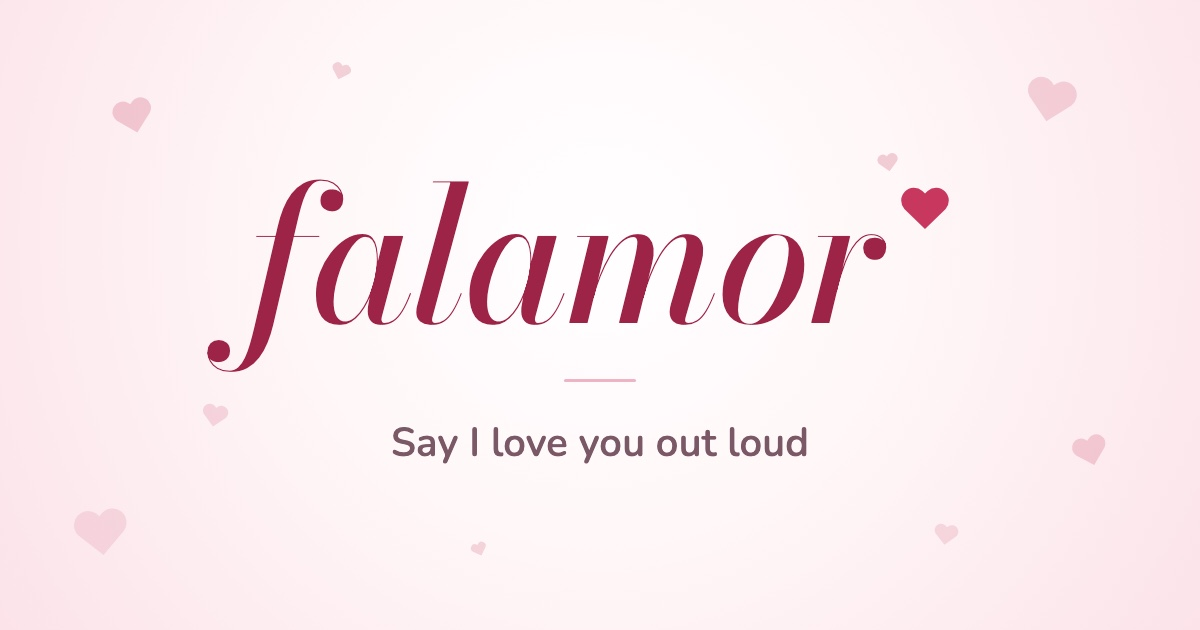
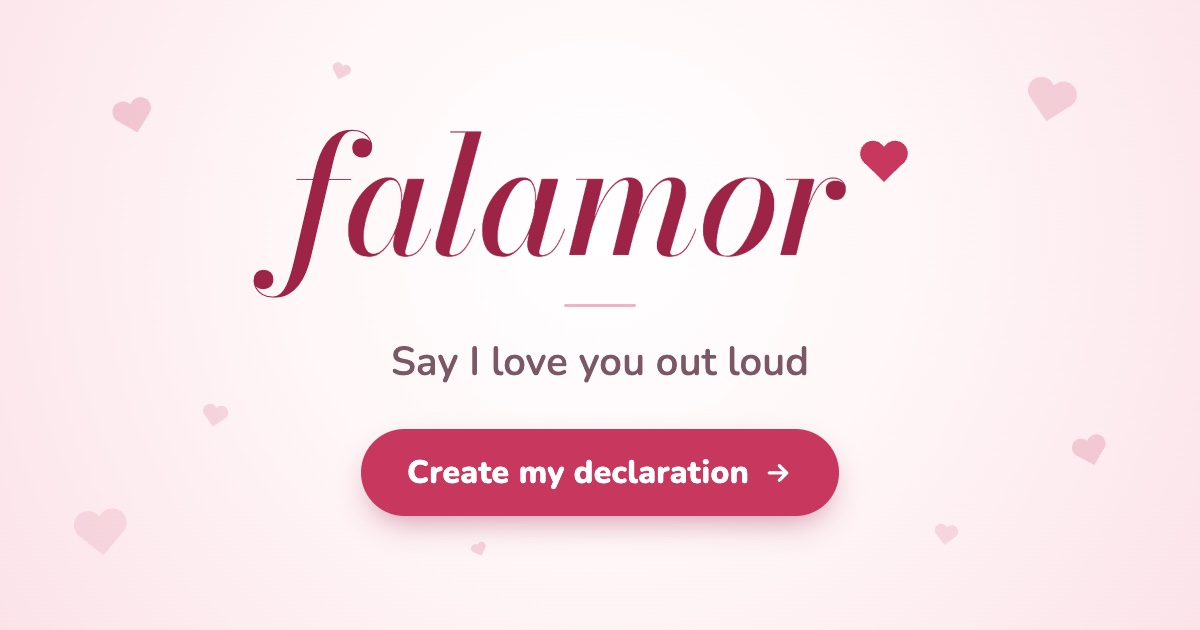
feat: botão de chamada na imagem de compartilhamento e /llms.txt
- Imagem OG ganha o botão "Criar minha declaração" (?v=2 para furar o cache do WhatsApp).
- og:url na landing.
- /llms.txt pré-renderizado no build, com links absolutos a partir do NUXT_PUBLIC_SITE_URL.

diff --git a/server/routes/llms.txt.ts b/server/routes/llms.txt.ts
@@ -1,0 +1,47 @@
+import { APP_CONFIG } from '#shared/config'
+
+/**
+ * /llms.txt (llmstxt.org): resumo do Falamor para assistentes de IA e buscadores.
+ * Pré-renderizado no build (routeRules), então os links absolutos usam NUXT_PUBLIC_SITE_URL do build.
+ * Não cite preço nem detalhes técnicos de voz: o preço ainda não foi decidido (docs/produto.md).
+ */
+export default defineEventHandler((event) => {
+  const { siteUrl } = useRuntimeConfig().public
+  const url = (path: string) => new URL(path, siteUrl).toString()
+  const { maxPhotos } = APP_CONFIG.declaration
+
+  setResponseHeader(event, 'Content-Type', 'text/plain; charset=utf-8')
+
+  return `# Falamor
+
+> O Falamor transforma as fotos de um casal numa declaração de amor falada, com música, no estilo das "Recordações" do Google Fotos, pronta para enviar por link no WhatsApp. Fica pronto em poucos minutos, pelo celular, sem precisar editar nada.
+
+O Falamor é um presente emocional, não um editor de vídeo nem um álbum permanente. A pessoa escolhe até ${maxPhotos} fotos, escreve a declaração com as próprias palavras ou escolhe um dos textos prontos, e escolhe uma voz (feminina ou masculina) e um estilo de música. O resultado é uma apresentação com as fotos passando, a declaração lida em voz alta com emoção, legendas, trilha sonora e um contador do tempo que o casal está junto. Quem recebe abre o link no celular, toca no envelope e assiste.
+
+Criar e ver a prévia é grátis. Está disponível em português (Brasil) e em inglês.
+
+## Páginas
+
+- [Página inicial](${url('/')}): o que é o Falamor e como funciona.
+- [Criar uma declaração](${url('/criar')}): assistente em 4 passos (nomes, fotos, declaração e prévia).
+- [Exemplo de declaração](${url('/d/demo')}): uma declaração pronta para ver como fica.
+
+## Como funciona
+
+1. Escolha até ${maxPhotos} fotos: das viagens, dos aniversários e das bobeiras do dia a dia.
+2. Diga o que sente: com as suas palavras ou com uma das declarações prontas.
+3. Envie o link: quem você ama abre no celular, aumenta o som e sente cada palavra.
+
+## Ocasiões
+
+- Dia dos Namorados (12 de junho no Brasil)
+- Aniversário de namoro ou casamento
+- Natal e Ano Novo
+- Pedido de namoro ou casamento, reconciliação, relacionamento à distância
+
+## English
+
+- [Home (English)](${url('/en')}): Falamor turns a couple's photos into a spoken love declaration with music, ready to send as a link on WhatsApp.
+- [Example declaration (English)](${url('/en/d/demo-en')}): see what a finished declaration looks like.
+`
+})

diff --git a/scripts/og/landing.html b/scripts/og/landing.html
@@ -11,7 +11,7 @@
 <head>
 <meta charset="utf-8">
 <link rel="preconnect" href="https://fonts.googleapis.com">
-<link href="https://fonts.googleapis.com/css2?family=Bodoni+Moda:ital,opsz,wght@1,6..96,500&family=Nunito:wght@600&display=block" rel="stylesheet">
+<link href="https://fonts.googleapis.com/css2?family=Bodoni+Moda:ital,opsz,wght@1,6..96,500&family=Nunito:wght@600;800&display=block" rel="stylesheet">
 <style>
   html, body { margin: 0; width: 1200px; height: 630px; overflow: hidden; }
   body {
@@ -26,15 +26,24 @@
     position: relative;
     display: inline-flex; align-items: flex-start; gap: 6px;
     font-family: 'Bodoni Moda', serif; font-style: italic; font-weight: 500;
-    font-size: 188px; line-height: 1; letter-spacing: -0.01em;
+    font-size: 164px; line-height: 1; letter-spacing: -0.01em;
     color: #9E2447;
   }
   .wordmark svg { width: 56px; height: 56px; fill: #C8385E; margin-top: 18px; }
   .tagline {
-    margin-top: 34px;
+    margin-top: 28px;
     font-size: 40px; font-weight: 600; color: #7A5866; letter-spacing: 0.005em;
   }
-  .rule { width: 72px; height: 3px; border-radius: 3px; background: #EEB4C4; margin-top: 30px; }
+  .rule { width: 72px; height: 3px; border-radius: 3px; background: #EEB4C4; margin-top: 26px; }
+  /* Chamada para ação: mesmo texto e cor do botão principal da landing */
+  .cta {
+    margin-top: 40px; padding: 22px 46px; border-radius: 999px;
+    display: inline-flex; align-items: center; gap: 14px;
+    background: #C8385E; color: #fff;
+    font-size: 32px; font-weight: 800; letter-spacing: 0.01em;
+    box-shadow: 0 14px 34px -12px rgba(158, 36, 71, .55);
+  }
+  .cta svg { width: 30px; height: 30px; stroke: #fff; fill: none; stroke-width: 2.6; stroke-linecap: round; stroke-linejoin: round; }
 </style>
 </head>
 <body>
@@ -52,10 +61,12 @@
   <div class="wordmark">falamor<svg viewBox="0 0 32 32"><path d="M16 28.5 4.2 17.1A7.3 7.3 0 0 1 14.5 6.8L16 8.3l1.5-1.5a7.3 7.3 0 0 1 10.3 10.3Z"/></svg></div>
   <div class="rule"></div>
   <div class="tagline" id="tagline">Declare seu amor em voz alta</div>
+  <div class="cta"><span id="cta">Criar minha declaração</span><svg viewBox="0 0 24 24"><path d="M5 12h14M13 6l6 6-6 6"/></svg></div>
   <script>
     if (new URLSearchParams(location.search).get('lang') === 'en') {
       document.documentElement.lang = 'en'
       document.getElementById('tagline').textContent = 'Say I love you out loud'
+      document.getElementById('cta').textContent = 'Create my declaration'
     }
   </script>
 </body>

diff --git a/app/pages/index.vue b/app/pages/index.vue
@@ -4,7 +4,9 @@ const { siteUrl } = useRuntimeConfig().public
 
 // Imagem de compartilhamento: fonte em scripts/og/landing.html.
 // URL absoluta: a landing é pré-renderizada, então NUXT_PUBLIC_SITE_URL precisa estar certo no build.
-const ogImage = computed(() => new URL(`/og/falamor-${locale.value === 'en' ? 'en' : 'pt'}.jpg`, siteUrl).toString())
+// Mudou a imagem? Suba o `v`: WhatsApp e Facebook guardam a prévia pela URL.
+const ogImage = computed(() => new URL(`/og/falamor-${locale.value === 'en' ? 'en' : 'pt'}.jpg?v=2`, siteUrl).toString())
+const pageUrl = computed(() => new URL(locale.value === 'en' ? '/en' : '/', siteUrl).toString())
 
 useSeoMeta({
   title: () => t('seo.homeTitle'),
@@ -12,6 +14,7 @@ useSeoMeta({
   ogTitle: () => t('seo.homeTitle'),
   ogDescription: () => t('seo.homeDescription'),
   ogType: 'website',
+  ogUrl: pageUrl,
   ogSiteName: 'Falamor',
   ogImage,
   ogImageWidth: 1200,

diff --git a/nuxt.config.ts b/nuxt.config.ts
@@ -43,6 +43,8 @@ export default defineNuxtConfig({
     '/**': { ssr: false },
     '/': { ssr: true, prerender: true },
     '/en': { ssr: true, prerender: true },
+    // Resumo para assistentes de IA (server/routes/llms.txt.ts), gerado no build como a landing.
+    '/llms.txt': { prerender: true },
     '/d/**': { headers: { 'X-Robots-Tag': 'noindex, nofollow' } },
     '/en/d/**': { headers: { 'X-Robots-Tag': 'noindex, nofollow' } },
   },
